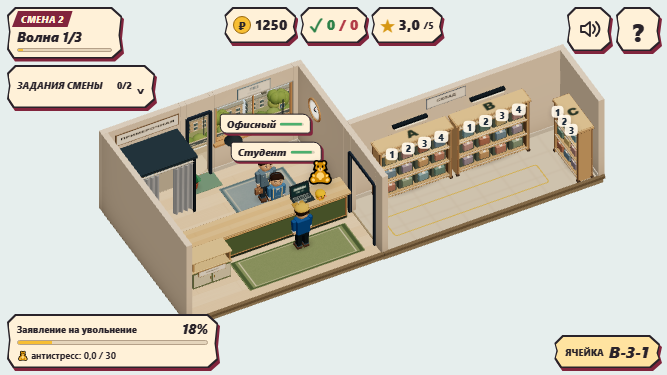
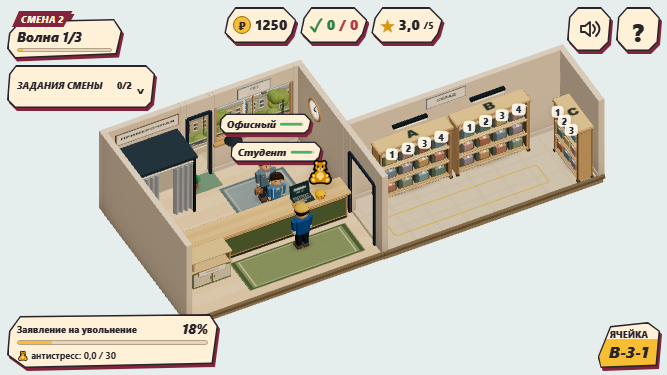
fix: приблизить контуры HUD к одобренному концепту

diff --git a/src/ui/hud.css b/src/ui/hud.css
@@ -11,20 +11,25 @@
   --hud-bottom: max(var(--hud-edge), env(safe-area-inset-bottom));
 }
 
-.hud-paper {
+.hud-paper, .client-tag {
   --paper-face: var(--hud-paper);
   --paper-outline: var(--hud-ink);
-  --paper-cut: polygon(8px 0, calc(100% - 10px) 0, 100% 9px, calc(100% - 2px) 55%, 100% calc(100% - 8px), calc(100% - 9px) 100%, 6px 100%, 0 calc(100% - 9px), 2px 48%, 0 8px);
+  --paper-shadow: var(--hud-burgundy);
+  /* The concept uses straight, sloping sides; no concave mid-edge bites.
+     Inner cuts compensate for the inset so diagonal borders stay even. */
+  --paper-cut: polygon(11px 0, calc(100% - 13px) 0, 100% 13px, calc(100% - 4px) calc(100% - 9px), calc(100% - 11px) 100%, 10px 100%, 0 calc(100% - 10px), 3px 11px);
+  --paper-inner-cut: polygon(10px 0, calc(100% - 12px) 0, 100% 12px, calc(100% - 4px) calc(100% - 8px), calc(100% - 10px) 100%, 9px 100%, 0 calc(100% - 9px), 3px 10px);
   position: relative;
   isolation: isolate;
   border: 0;
   border-radius: 0;
   background: transparent;
   color: var(--hud-ink);
-  filter: drop-shadow(2px 3px 0 var(--hud-burgundy));
+  filter: drop-shadow(2px 3px 0 var(--paper-shadow));
 }
 
-.hud-paper::before, .hud-paper::after {
+.hud-paper::before, .hud-paper::after,
+.client-tag::before, .client-tag::after {
   content: '';
   position: absolute;
   inset: 0;
@@ -34,10 +39,39 @@
   pointer-events: none;
 }
 
-.hud-paper::after {
+.hud-paper::after, .client-tag::after {
   inset: 1.5px;
   z-index: -1;
   background: var(--paper-face);
+  clip-path: var(--paper-inner-cut);
+}
+
+/* Broad paper tickets: angled top, long tapered sides, an asymmetric
+   bottom-left cut. They share a family, not the counter/button silhouette. */
+.hud-shift, .quest-panel, .stress-card {
+  --paper-cut: polygon(13px 2px, calc(100% - 8px) 0, 100% 12px, calc(100% - 5px) calc(100% - 4px), 18px 100%, 0 calc(100% - 13px), 2px 17px);
+  --paper-inner-cut: polygon(12px 2px, calc(100% - 7px) 0, 100% 11px, calc(100% - 5px) calc(100% - 4px), 17px 100%, 0 calc(100% - 12px), 2px 16px);
+}
+
+.hud-shift {
+  /* The burgundy shift tab projects above the paper, as in the concept. */
+  --paper-cut: polygon(13px 14px, calc(100% - 8px) 12px, 100% 24px, calc(100% - 5px) calc(100% - 4px), 8px 100%, 0 calc(100% - 10px), 2px 26px);
+  --paper-inner-cut: polygon(12px 14px, calc(100% - 7px) 12px, 100% 23px, calc(100% - 5px) calc(100% - 4px), 7px 100%, 0 calc(100% - 9px), 2px 25px);
+}
+
+.quest-panel:not([open]) {
+  --paper-cut: polygon(9px 0, calc(100% - 9px) 0, 100% 9px, calc(100% - 3px) calc(100% - 6px), calc(100% - 9px) 100%, 8px 100%, 0 calc(100% - 8px), 2px 9px);
+  --paper-inner-cut: polygon(8px 0, calc(100% - 8px) 0, 100% 8px, calc(100% - 3px) calc(100% - 5px), calc(100% - 8px) 100%, 7px 100%, 0 calc(100% - 7px), 2px 8px);
+}
+
+.icon-btn {
+  --paper-cut: polygon(11px 0, calc(100% - 10px) 0, 100% 11px, calc(100% - 2px) calc(100% - 9px), calc(100% - 11px) 100%, 10px 100%, 0 calc(100% - 11px), 2px 10px);
+  --paper-inner-cut: polygon(10px 0, calc(100% - 9px) 0, 100% 10px, calc(100% - 2px) calc(100% - 8px), calc(100% - 10px) 100%, 9px 100%, 0 calc(100% - 10px), 2px 9px);
+}
+
+.order-chip {
+  --paper-cut: polygon(22px 3px, calc(100% - 16px) 0, 100% 8px, calc(100% - 4px) calc(100% - 2px), 3px 100%, 0 calc(100% - 11px));
+  --paper-inner-cut: polygon(21px 3px, calc(100% - 15px) 0, 100% 7px, calc(100% - 4px) calc(100% - 2px), 2px 100%, 0 calc(100% - 10px));
 }
 
 #hud {
@@ -58,7 +92,7 @@
   padding: 3px 12px 3px 9px;
   background: var(--hud-burgundy);
   color: var(--hud-paper);
-  clip-path: polygon(6px 0, 100% 0, calc(100% - 5px) 100%, 0 100%);
+  clip-path: polygon(7px 0, 100% 0, calc(100% - 9px) 100%, 0 100%);
   font-size: 11px;
   font-style: italic;
   font-weight: 950;
@@ -212,6 +246,14 @@
   pointer-events: none;
 }
 .order-chip { display: flex; flex-wrap: wrap; align-items: center; justify-content: center; gap: 7px; max-width: 100%; padding: 8px 14px; font-weight: 900; --paper-face: #ffe3a0; }
+.order-chip.cell {
+  --paper-cut: polygon(20% 4px, calc(100% - 12px) 0, 100% 9px, calc(100% - 3px) calc(100% - 2px), 3px 100%, 0 calc(100% - 11px));
+  --paper-inner-cut: polygon(20% 4px, calc(100% - 11px) 0, 100% 8px, calc(100% - 3px) calc(100% - 2px), 2px 100%, 0 calc(100% - 10px));
+  --paper-face: linear-gradient(var(--hud-paper) 0 36%, var(--hud-gold) 36% 100%);
+  flex-direction: column;
+  gap: 1px;
+}
+.order-chip.cell .order-value { max-width: 100%; text-align: center; }
 .order-label { font-size: 10px; text-transform: uppercase; }
 .order-value { font-size: 18px; font-style: italic; overflow-wrap: anywhere; }
 .order-chip.carry { --paper-face: #e0eed4; }
@@ -243,18 +285,20 @@
 .final-boss-debuff { top: calc(var(--hud-top) + 92px); font-size: 9px; }
 
 .client-tag {
+  --paper-cut: polygon(7px 0, calc(100% - 7px) 0, 100% 7px, calc(100% - 2px) calc(100% - 5px), calc(100% - 7px) 100%, 6px 100%, 0 calc(100% - 6px), 1px 6px);
+  --paper-inner-cut: polygon(6px 0, calc(100% - 6px) 0, 100% 6px, calc(100% - 2px) calc(100% - 4px), calc(100% - 6px) 100%, 5px 100%, 0 calc(100% - 5px), 1px 5px);
   padding: 4px 8px 5px;
-  border: 1.5px solid var(--hud-ink);
-  border-radius: 3px 8px 3px 7px;
-  background: var(--hud-paper);
-  box-shadow: 2px 2px 0 var(--hud-burgundy);
+  /* Preserve the old layout box while painting the polygon over its border. */
+  border: 1.5px solid transparent;
   text-align: center;
 }
+.client-tag::before { inset: -1.5px; }
+.client-tag::after { inset: 0; }
 .client-name { display: block; color: var(--hud-ink); font-size: 10px; font-weight: 850; font-style: italic; line-height: 1.2; white-space: nowrap; }
 .client-patience { width: 48px; height: 4px; margin: 3px auto 0; overflow: hidden; border-radius: 3px; background: #dcd0b9; }
 .client-patience-fill { width: 100%; height: 100%; background: var(--green); transition: width .15s linear, background .2s ease; }
-.client-label.target .client-tag { border-color: #2d8149; box-shadow: 2px 2px 0 #2d8149; }
-.client-label.boss .client-tag { background: var(--hud-burgundy); border-color: var(--hud-ink); }
+.client-label.target .client-tag { --paper-outline: #2d8149; --paper-shadow: #2d8149; }
+.client-label.boss .client-tag { --paper-face: var(--hud-burgundy); }
 .client-label.boss .client-name { color: var(--hud-paper); }
 .client-label.boss .client-patience, .client-label.menu .client-patience, .client-label.leaving .client-patience { display: none; }
 .client-label.impatient .client-patience-fill { animation: bar-blink .5s ease-in-out infinite alternate; }

diff --git a/docs/screenshots/76-hud/geometry-comparison.html b/docs/screenshots/76-hud/geometry-comparison.html
@@ -1,0 +1,31 @@
+<!doctype html><html lang="ru"><meta charset="UTF-8"><title>Геометрия HUD</title>
+<style>
+*{box-sizing:border-box}body{margin:0;padding:24px;background:#f6eedf;color:#29232a;font:15px system-ui,sans-serif}
+h1{font-size:24px;margin:0 0 6px}p{margin:0 0 22px;color:#66594f;font-size:13px}
+.grid{display:grid;grid-template-columns:125px repeat(3,1fr);gap:1px;background:#d8c8b4;border:1px solid #d8c8b4}
+.grid>div{display:flex;align-items:center;justify-content:center;background:#fff9ed;min-height:103px;padding:10px}
+.grid>.head{min-height:40px;background:#81253d;color:#fff1d8;font-weight:800}.grid>.name{justify-content:start;font-weight:700}
+.crop{position:relative;overflow:hidden;padding:0!important;min-height:0!important;flex-shrink:0}.crop img{position:absolute;max-width:none;height:auto}
+</style><h1>Геометрия HUD</h1><p>Исходные изображения. Детали приведены к одной высоте без растяжения. Компактный масштаб и расположение HUD сохранены; карточка ячейки стала флажком.</p>
+<div class="grid"><div class="head">Элемент</div><div class="head">Концепт</div><div class="head">Было в игре</div><div class="head">Стало в игре</div><div class="name">Смена</div>
+  <div><div class="crop" style="width:178.43478260869563px;height:76px"><img alt="" src="geometry-reference.png" style="width:1048.1391304347826px;left:-17.182608695652174px;top:-73.35652173913043px"></div></div>
+  <div><div class="crop" style="width:151.22274493761506px;height:76px"><img alt="" src="geometry-before/desktop.png" style="width:1591.818367764369px;left:-5.969318879116384px;top:-5.969318879116384px"></div></div>
+  <div><div class="crop" style="width:151.22274493761506px;height:76px"><img alt="" src="desktop.png" style="width:1591.818367764369px;left:-5.969318879116384px;top:-5.969318879116384px"></div></div><div class="name">Счётчик</div>
+  <div><div class="crop" style="width:191.56164383561642px;height:76px"><img alt="" src="geometry-reference.png" style="width:1651.1780821917807px;left:-401.86301369863014px;top:-129.0958904109589px"></div></div>
+  <div><div class="crop" style="width:150.1475px;height:76px"><img alt="" src="geometry-before/desktop.png" style="width:2432px;left:-1002.3925px;top:-9.120000000000001px"></div></div>
+  <div><div class="crop" style="width:150.1475px;height:76px"><img alt="" src="desktop.png" style="width:2432px;left:-1002.3925px;top:-9.120000000000001px"></div></div><div class="name">Задания</div>
+  <div><div class="crop" style="width:198.5985401459854px;height:76px"><img alt="" src="geometry-reference.png" style="width:879.8248175182482px;left:-13.86861313868613px;top:-128.14598540145985px"></div></div>
+  <div><div class="crop" style="width:236.8372093023256px;height:76px"><img alt="" src="geometry-before/desktop.png" style="width:1413.953488372093px;left:-5.302325581395349px;top:-72.46511627906978px"></div></div>
+  <div><div class="crop" style="width:236.8372093023256px;height:76px"><img alt="" src="desktop.png" style="width:1413.953488372093px;left:-5.302325581395349px;top:-72.46511627906978px"></div></div><div class="name">Стресс</div>
+  <div><div class="crop" style="width:202.84137931034485px;height:76px"><img alt="" src="geometry-reference.png" style="width:831.2827586206897px;left:-13.10344827586207px;top:-419.8344827586207px"></div></div>
+  <div><div class="crop" style="width:203.2173913043478px;height:76px"><img alt="" src="geometry-before/desktop.png" style="width:1321.7391304347825px;left:-4.956521739130435px;top:-746.7826086956521px"></div></div>
+  <div><div class="crop" style="width:203.2173913043478px;height:76px"><img alt="" src="desktop.png" style="width:1321.7391304347825px;left:-4.956521739130435px;top:-746.7826086956521px"></div></div><div class="name">Кнопка</div>
+  <div><div class="crop" style="width:88.66666666666667px;height:76px"><img alt="" src="geometry-reference.png" style="width:1674.111111111111px;left:-1078.7777777777778px;top:-131.94444444444446px"></div></div>
+  <div><div class="crop" style="width:76px;height:76px"><img alt="" src="geometry-before/desktop.png" style="width:2251.8518518518517px;left:-2170.222222222222px;top:-8.444444444444445px"></div></div>
+  <div><div class="crop" style="width:76px;height:76px"><img alt="" src="desktop.png" style="width:2251.8518518518517px;left:-2170.222222222222px;top:-8.444444444444445px"></div></div><div class="name">Бирка клиента</div>
+  <div><div class="crop" style="width:171px;height:76px"><img alt="" src="geometry-reference.png" style="width:2511.1666666666665px;left:-609.5833333333333px;top:-653.9166666666666px"></div></div>
+  <div><div class="crop" style="width:145.5875px;height:76px"><img alt="" src="geometry-before/desktop.png" style="width:3040px;left:-1157.997119140625px;top:-754.6587432861328px"></div></div>
+  <div><div class="crop" style="width:145.5875px;height:76px"><img alt="" src="desktop.png" style="width:3040px;left:-1157.997119140625px;top:-754.6587432861328px"></div></div><div class="name">Ячейка</div>
+  <div><div class="crop" style="width:125.76991150442478px;height:76px"><img alt="" src="geometry-reference.png" style="width:1066.6902654867258px;left:-311.3982300884956px;top:-553.5221238938053px"></div></div>
+  <div><div class="crop" style="width:199.68627450980392px;height:76px"><img alt="" src="geometry-before/desktop.png" style="width:2384.3137254901962px;left:-1093.8039215686274px;top:-1408.235294117647px"></div></div>
+  <div><div class="crop" style="width:97.44807692307693px;height:76px"><img alt="" src="desktop.png" style="width:1870.769230769231px;left:-887.8298076923078px;top:-1088.5538461538463px"></div></div></div></html>

diff --git a/docs/screenshots/76-hud/REPORT.md b/docs/screenshots/76-hud/REPORT.md
@@ -19,7 +19,7 @@
 
 Полный `npm run test:e2e` — **77/77 PASS** (5,3 минуты), включая все пять новых HUD-сценариев, пять смен, боссов и прежний игровой цикл. console.error/pageerror в e2e и production capture отсутствуют.
 
-`npm run perf -- --label gameplay-hud --check-budget` — PASS, отдельно от e2e. [Raw metrics](../../perf/76-hud/metrics.json) сняты на рабочем diff от fa6ddaf; seed 73129, 1280×900, 2 с прогрева и 5 с RAF, Chromium 158 / SwiftShader:
+`npm run perf -- --label gameplay-hud --check-budget` — PASS для первого прохода HUD, отдельно от e2e. Это сохранённый замер до уточнения контуров; при текущей CSS-правке WebGL-ресурсы не менялись. [Raw metrics](../../perf/76-hud/metrics.json) сняты на рабочем diff от fa6ddaf; seed 73129, 1280×900, 2 с прогрева и 5 с RAF, Chromium 158 / SwiftShader:
 
 | Сцена | Calls | Triangles | Textures | Programs | avg / p95 / max, мс |
 |---|---:|---:|---:|---:|---|
@@ -29,6 +29,22 @@
 3D-счётчики совпадают с базовым [замером улицы #74](../../perf/74-street/after.json). Бюджеты соблюдены, shadow refresh=0. E2e улицы дополнительно подтверждает вечерний пик с машиной — 177 calls / 92 205 triangles. Абсолютные времена SwiftShader не являются FPS физического телефона; ускорение от замены blur-панелей отдельно на мобильном GPU не измерялось.
 
 Production preview: `npm run build`, затем `node tests/visual/gameplay-hud.mjs`. Сервер 4188, фиксированный seed 73129, существующая камера, обычный активный заказ. Захват ниже — реальные кадры Chromium с эмуляцией touch, не повторная генерация концепта. Физическое мобильное устройство не использовалось.
+
+## Уточнение геометрии по концепту — 14 ноября 2026
+
+По замечанию владельца формы сверены с исходной генерацией отдельно от размеров/расположения HUD. Прежний общий многоугольник имел вогнутости посередине боков и одинаковый рисунок углов у всех панелей; бирки клиентов оставались скруглёнными. В концепте это прямые длинные скосы и несколько разных силуэтов.
+
+- У счётчиков и кнопок убраны боковые вогнутости, заданы отдельные угловые координаты. У смены/заданий/стресса — бумажный силуэт с наклонными границами и асимметричным нижним срезом. Закрытая мобильная строка заданий имеет собственный компактный контур.
+- Ярлык смены выступает над бумажной поверхностью. Бирки клиентов получили острые грани вместо radius; внешний layout box и CSS-поправка очереди прежние.
+- Карточка обычной ячейки повторяет флажок концепта: подпись сверху, код на жёлтом поле снизу. Она стала уже и немного выше; положение и размеры шрифта прежние. Списки ячеек могут переноситься. Carry/search/return сохраняют широкую горизонтальную компоновку.
+- Внутренний контур задан отдельно от внешнего с компенсацией inset на диагоналях. Бордовая подложка по-прежнему строится без размытия.
+- В этом уточнении production-код менялся только в hud.css. Никаких новых обработчиков, эффектов, изменений механики/камеры/3D. Скриншоты заново сняты с production preview, console.error/pageerror — 0.
+
+[Исходный концепт](geometry-reference.png) сохранён для ревью как документация; игра его не загружает. [HTML-сравнение](geometry-comparison.html) и изображение ниже используют исходные пиксели концепта, предыдущей сборки и текущего production preview, без перерисовки. Кадры приведены к одной высоте без растяжения; игровой HUD адаптирован к меньшему размеру и landscape. Воспроизведение: после `node tests/visual/gameplay-hud.mjs` запустить `node tests/visual/hud-shape-comparison.mjs`.
+
+![Концепт — было — стало](geometry-comparison.png)
+
+После уточнения повторены `npm run build`, `npm test` (92/92) и полный `npm run test:e2e` (77/77) — PASS. Вновь прошли четыре viewport HUD, touch-обслуживание, пять смен и боссы. Production preview на 1600×1000, 844×390, 667×375 и 568×320 — без console.error/pageerror. E2e также подтвердил прежний вечерний пик 177 calls / 92 205 triangles.
 
 ## Скриншоты
 
@@ -42,4 +58,4 @@ Production preview: `npm run build`, затем `node tests/visual/gameplay-hud.
 
 ## Ревью и откат
 
-Проверить масштаб панелей, сохранность номеров/списков ячеек и важных подсказок, полную очередь и тапы звука/помощи на landscape. Раскрытый список заданий временно занимает больше места; по умолчанию на телефоне он свёрнут. Новые более длинные названия/новые элементы HUD нужно перепроверять на 568×320. Откат — revert одного коммита PR целиком (CSS, markup и презентационные изменения); миграций сохранений нет.
+Проверить масштаб панелей, сохранность номеров/списков ячеек и важных подсказок, полную очередь и тапы звука/помощи на landscape. Раскрытый список заданий временно занимает больше места; по умолчанию на телефоне он свёрнут. Новые более длинные названия/новые элементы HUD нужно перепроверять на 568×320. Откат — откат PR целиком (CSS, markup и презентационные изменения); миграций сохранений нет.

diff --git a/docs/ROADMAP_ARCHITECTURE_GRAPHICS.md b/docs/ROADMAP_ARCHITECTURE_GRAPHICS.md
@@ -764,6 +764,8 @@ src/
 - Обычный cell-chip скрывает дублирующую навигационную плашку через CSS; code/список ячеек остаётся виден. Search/carry/return и остальные подсказки сохранены. Game, ServiceSystem, сцена, камера и диалоги не менялись.
 - Build, 92 unit и 77 e2e — PASS. Проверки и реальные production-кадры — [в отчёте](screenshots/76-hud/REPORT.md). Пять новых e2e: четыре viewport с проверками перекрытий/управления и полный touch-сценарий обслуживания. Perf — 123/175 calls, 68 840/91 657 triangles; 3D-счётчики прежние, теневых карт нет.
 
+- По уточнению владельца 14 ноября формы разделены по семействам: прямые скосы счётчиков/кнопок, бумажные карточки, выступающий ярлык смены, гранёные бирки и флажок ячейки. Внутренний контур компенсирует inset; [сравнение с генерацией](screenshots/76-hud/geometry-comparison.png) приложено к отчёту. Изменения только в CSS, камера/механика сохранены.
+
 ### Исторические метрики до визуальных проходов
 
 Актуальные фиксированные сцены и методика — в 6.23 и [perf-отчёте](perf/PR5_REPORT.md).
